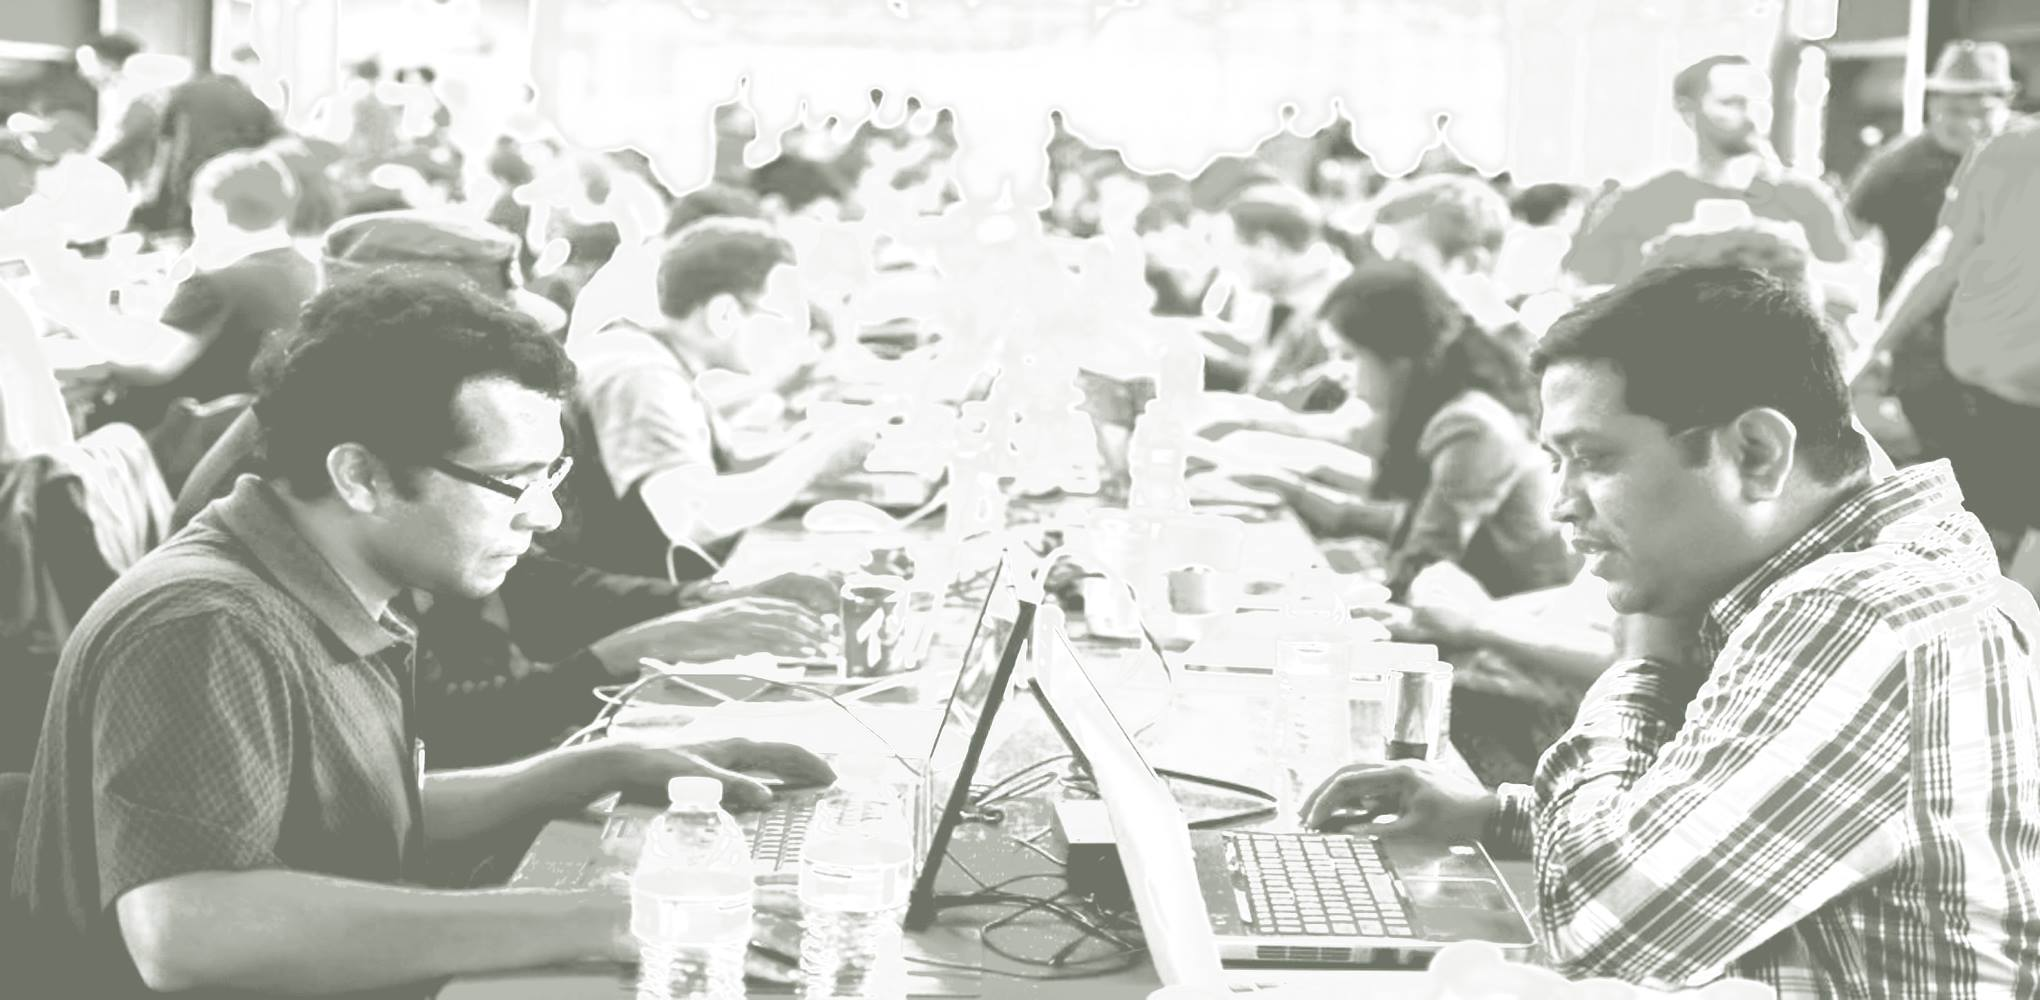
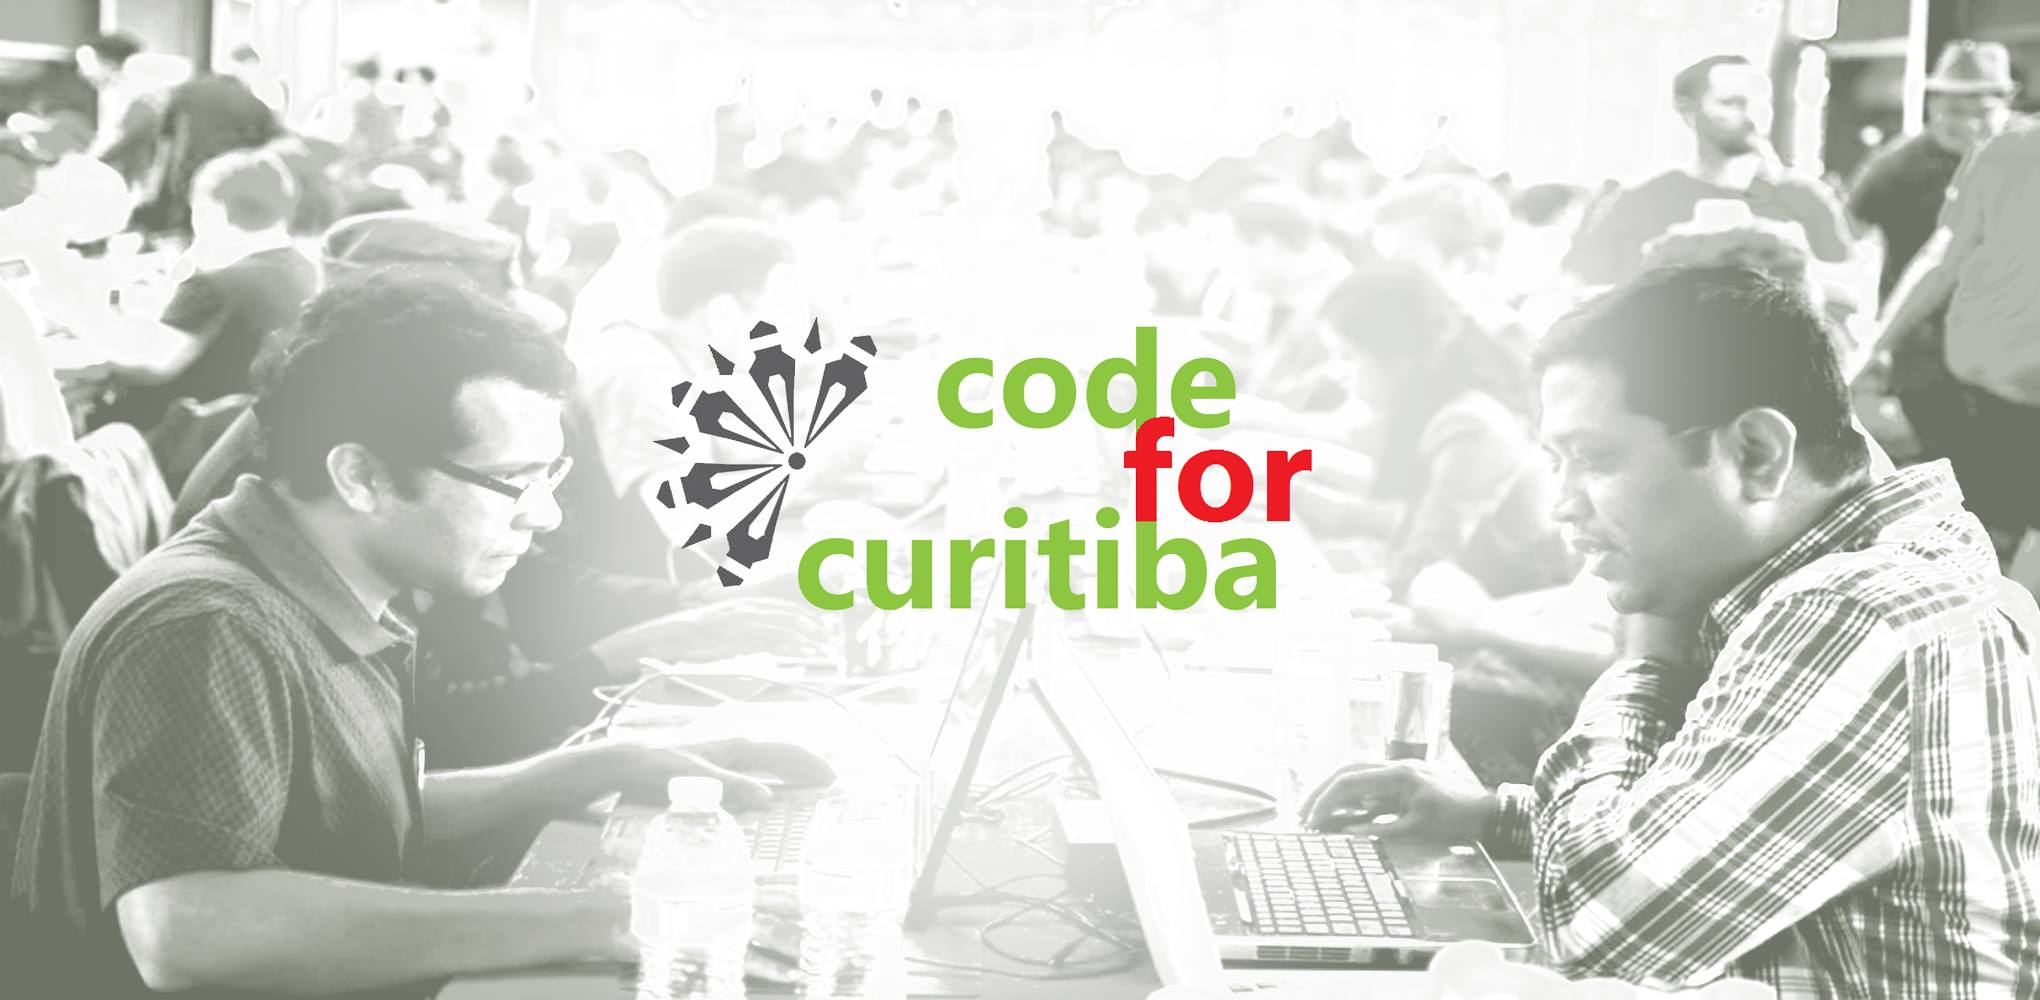
New header bg image

Changed region(s): [[0.1235, 0.093, 0.8647, 1.0], [0.4324, 0.248, 0.4632, 0.279]]

diff --git a/index.html b/index.html
@@ -49,7 +49,6 @@
     <div class="container">
       <div class="col-lg-12 text-center background">
         <div align="center" class="content">
-          <img src="img/code.png"><br/>
           <button type="button" class="btn btn-success">Saiba Mais</button>
         </div>        
       </div>

diff --git a/css/style.css b/css/style.css
@@ -233,7 +233,7 @@ header {
 }
 
 #hero .background .content {
-	padding-top: 70px;
+	padding-top: 280px;
 }
 
 #hero .background .content img {
